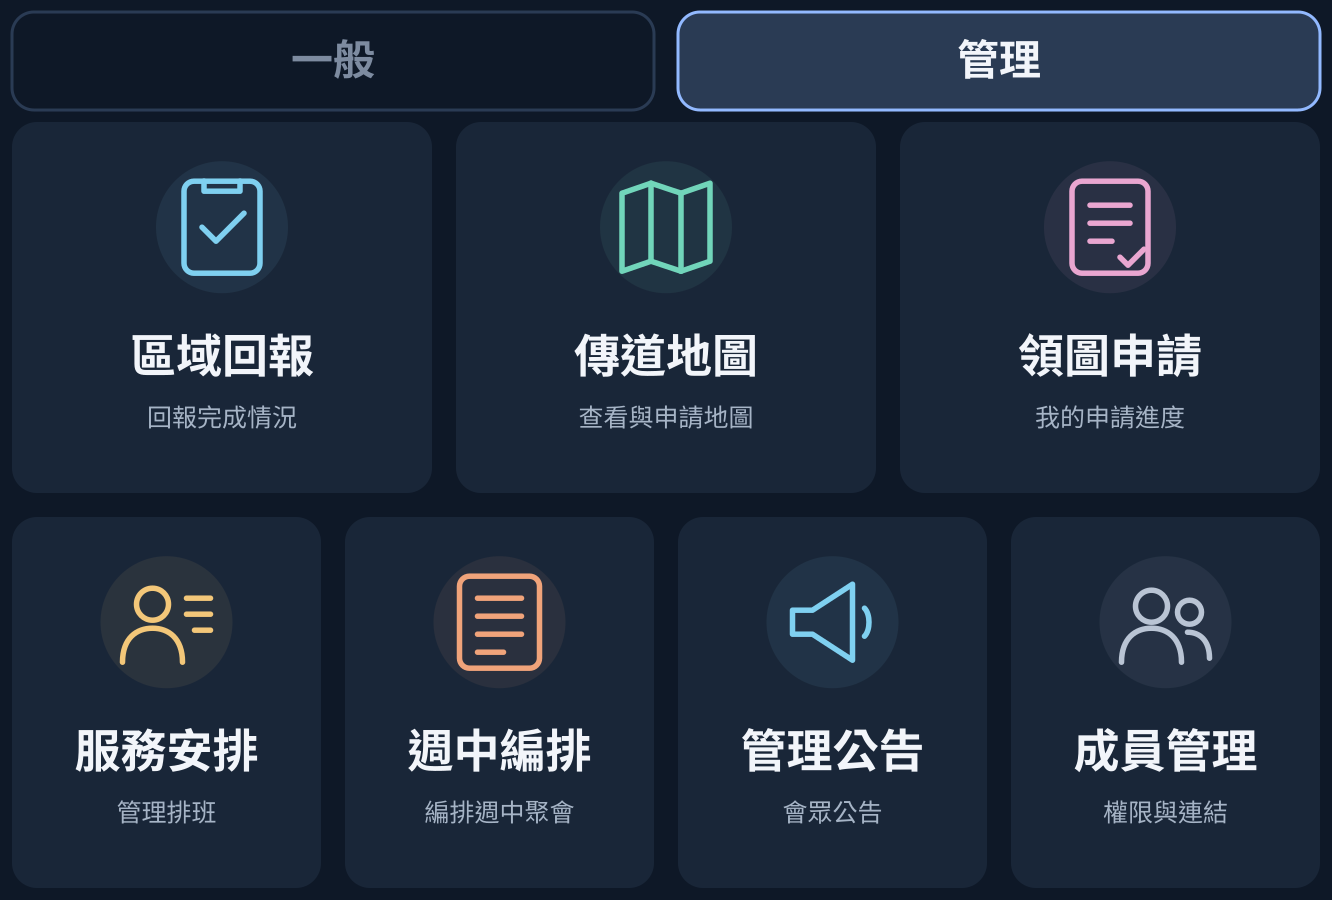
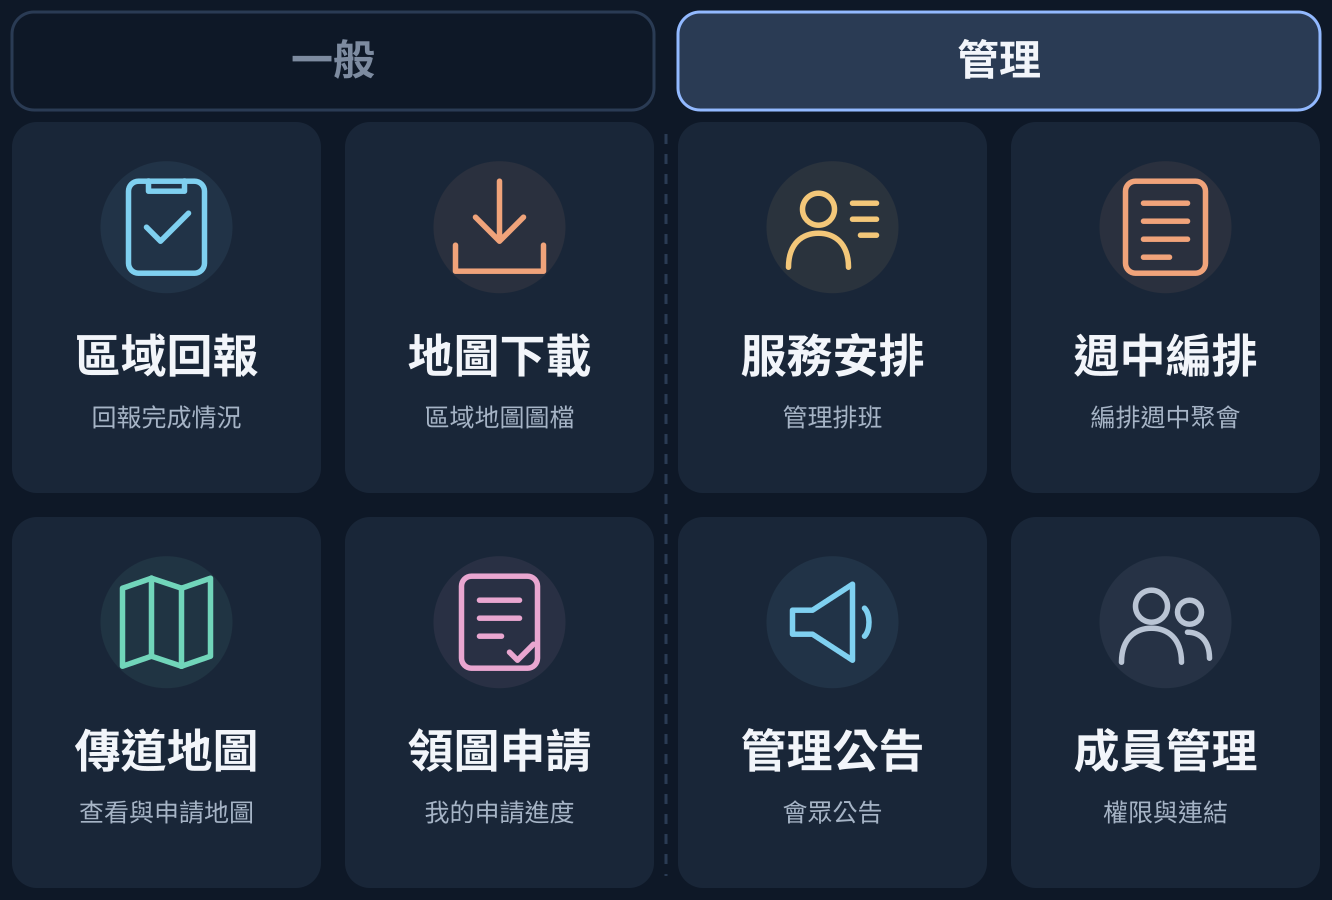
feat: LINE 管理頁原地圖交接格改為地圖下載，選單升 v9（ADR-0122） (#86)
Claude-Session: https://claude.ai/code/session_01XDbjwPajvQzJHFwDXEMPkb

diff --git a/src/lib/line-rich-menu.ts b/src/lib/line-rich-menu.ts
@@ -12,9 +12,9 @@ export type MenuKey = 'sister' | 'brother-general' | 'brother-manage' | 'admin-g
 export const menuKeys: MenuKey[] = ['sister', 'brother-general', 'brother-manage', 'admin-general', 'admin-manage']
 const tabbedKeys = menuKeys.filter(key => key !== 'sister') as Exclude<MenuKey, 'sister'>[]
 const liffId = configuredLiffId()
-const stateKey = (key: MenuKey) => liffId ? `line_rich_menu_v8_${key}_liff_${liffId}` : `line_rich_menu_v8_${key}`
+const stateKey = (key: MenuKey) => liffId ? `line_rich_menu_v9_${key}_liff_${liffId}` : `line_rich_menu_v9_${key}`
 // Alias ids are per channel: [a-z0-9_-], at most 32 characters.
-export const aliasId = (key: MenuKey) => `cms-v8-${key}`
+export const aliasId = (key: MenuKey) => `cms-v9-${key}`
 const menuUrl = (view: string) => liffId ? `https://liff.line.me/${liffId}/?view=${view}` : `${botSite}${liffDestination(view)}`
 const lockKey = 'line_rich_menu_publish_lock'
 const api = 'https://api.line.me/v2/bot'
@@ -23,7 +23,7 @@ const uri = (view: string) => ({ type: 'uri' as const, uri: menuUrl(view) })
 const tiles: Record<string, { type: 'uri'; uri: string } | { type: 'message'; text: string }> = {
   publicTalks: uri('public-talks'), midweekMeeting: uri('midweek-meeting'), announcementsView: uri('announcements'), groups: uri('ministry-groups'),
   meetingPoints: uri('meeting-points'), serviceRoster: uri('service-roster'), dashboard: uri('dashboard'), assignments: { type: 'message', text: '我的委派' }, territory: uri('territory'),
-  report: uri('report'), myRequests: uri('requests'),
+  report: uri('report'), mapDownload: uri('map-images'), myRequests: uri('requests'),
   roster: uri('roster'), midweek: uri('midweek'), announcements: uri('manage-announcements'), members: uri('members'),
 }
 // Same rows and sizes as scripts/create-line-menu.cjs, which draws the images.
@@ -31,9 +31,9 @@ const general = [['publicTalks', 'midweekMeeting', 'announcementsView', 'groups'
 const layouts: Record<MenuKey, { width: number; height: number; label: string; tab: 'general' | 'manage' | null; rows: string[][] }> = {
   sister: { width: 1332, height: 674, label: '一般', tab: null, rows: general },
   'brother-general': { width: 1332, height: 900, label: '弟兄一般', tab: 'general', rows: general },
-  'brother-manage': { width: 1332, height: 900, label: '弟兄管理', tab: 'manage', rows: [['report', 'territory', 'myRequests']] },
+  'brother-manage': { width: 1332, height: 900, label: '弟兄管理', tab: 'manage', rows: [['report', 'mapDownload'], ['territory', 'myRequests']] },
   'admin-general': { width: 1332, height: 900, label: '管理者一般', tab: 'general', rows: general },
-  'admin-manage': { width: 1332, height: 900, label: '管理者管理', tab: 'manage', rows: [['report', 'territory', 'myRequests'], ['roster', 'midweek', 'announcements', 'members']] },
+  'admin-manage': { width: 1332, height: 900, label: '管理者管理', tab: 'manage', rows: [['report', 'mapDownload', 'roster', 'midweek'], ['territory', 'myRequests', 'announcements', 'members']] },
 }
 const BAR = 110
 function definition(key: MenuKey) {
@@ -46,7 +46,7 @@ function definition(key: MenuKey) {
   })) : []
   return {
     size: { width, height }, selected: true,
-    name: `楠梓會眾${label}選單 v8`, chatBarText: '開啟功能選單',
+    name: `楠梓會眾${label}選單 v9`, chatBarText: '開啟功能選單',
     areas: [...tabAreas, ...rows.flatMap((keys, row) => {
       const cell = Math.floor(width / keys.length), y = top + row * rowH
       return keys.map((name, i) => ({

diff --git a/src/lib/liff-settings.ts b/src/lib/liff-settings.ts
@@ -7,7 +7,7 @@ export function configuredLiffId(): string | null {
 // LINE 選單開啟的頁面（ADR-0115）；其餘未知的 view 一律回看板。
 const viewPages: Record<string, string> = {
   bulletin: '/bulletin', assignments: '/dashboard/assignments/service', territory: '/area-status',
-  report: '/bulletin/territory-report', requests: '/map-requests',
+  report: '/bulletin/territory-report', 'map-images': '/map-images', requests: '/map-requests',
   roster: '/service-roster/manage', midweek: '/midweek/manage', 'manage-announcements': '/bulletin/announcements#manage-announcements', members: '/members',
   'public-talks': '/bulletin/public-talks', 'midweek-meeting': '/bulletin/midweek-meeting', announcements: '/bulletin/announcements',
   'ministry-groups': '/bulletin/ministry-groups', 'meeting-points': '/bulletin/meeting-points', 'service-roster': '/bulletin/service-roster',

diff --git a/CONTEXT.md b/CONTEXT.md
@@ -1,5 +1,6 @@
 # 地圖分配系統 — 領域詞彙表
 
+- 2026-11-12：LINE 管理頁原「地圖交接」那格改為「地圖下載」，開地圖圖檔頁 `/map-images`。弟兄管理頁回到 2×2（區域回報、地圖下載／傳道地圖、領圖申請）；管理者左 2×2 同弟兄、右 2×2 為服務安排、週中編排／管理公告、成員管理。選單升 v9 需重新發布。詳見 ADR-0122。
 - 2026-11-09：使用者覺得地圖交接太複雜，決定先關閉。LINE 管理頁拿掉地圖交接格（弟兄一排三格；管理者上排弟兄三格、下排四個管理項目，選單升 v8 需重新發布），看板與待辦中心拿掉交接相關區塊，交接頁導回我的看板，LINE 私訊只留我的委派、我的地圖。資料保留不刪。詳見 ADR-0120。
 
 - 2026-11-08：使用者確認領取地圖的人和實際被交接的人常不相同，且姊妹領的都是個人區域、不參與交接。LINE「地圖交接」進入的看板新增「排給我的地圖」（預排或已交接給我，不派發的弟兄也看得到），通知附交接頁連結；預排傳道只能選弟兄。詳見 ADR-0119。

diff --git a/docs/adr/0122-line-menu-map-download.md b/docs/adr/0122-line-menu-map-download.md
@@ -1,0 +1,17 @@
+# ADR-0122：LINE 管理頁原地圖交接格改為地圖下載
+
+2026-11-12，已接受。修訂 ADR-0120 的管理頁版面。
+
+## 背景
+
+地圖交接關閉後（ADR-0120），使用者希望 LINE 管理頁原本「地圖交接」那格改放「地圖下載」，讓弟兄在 LINE 直接開地圖圖檔下載頁。
+
+## 決策
+
+- 新增選單格「地圖下載」（副標「區域地圖圖檔」），開啟 `/map-images`（地圖圖檔頁，免登入，可預覽及下載各區與全圖圖檔，ADR-0046）。LIFF view 為 `map-images`。
+- 版面回到地圖交接時的位置：弟兄管理頁 2×2＝區域回報、地圖下載／傳道地圖、領圖申請；管理者管理頁左 2×2 同弟兄四格、右 2×2＝服務安排、週中編排／管理公告、成員管理，中間虛線分隔。
+- 選單圖片改變，狀態鍵與 alias 升為 v9（`line_rich_menu_v9_*`、`cms-v9-*`），部署後需在「我的看板→管理工具→底部圖文選單」再按一次「發布至 LINE」。
+
+## 不變
+
+- 一般頁與姊妹版選單不變；地圖交接仍關閉。
